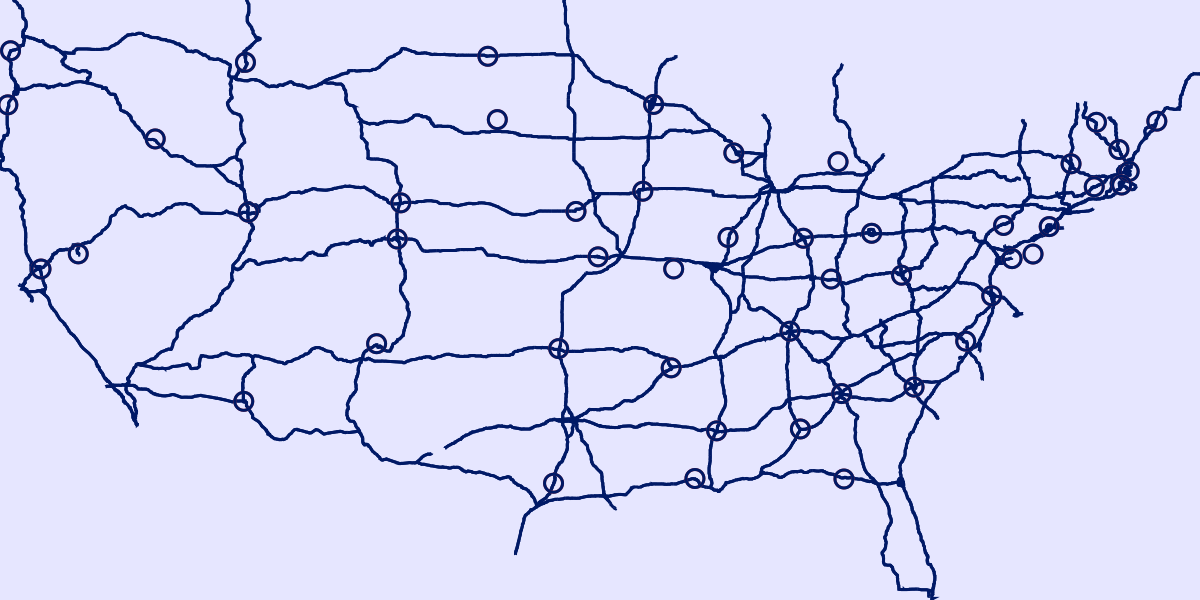
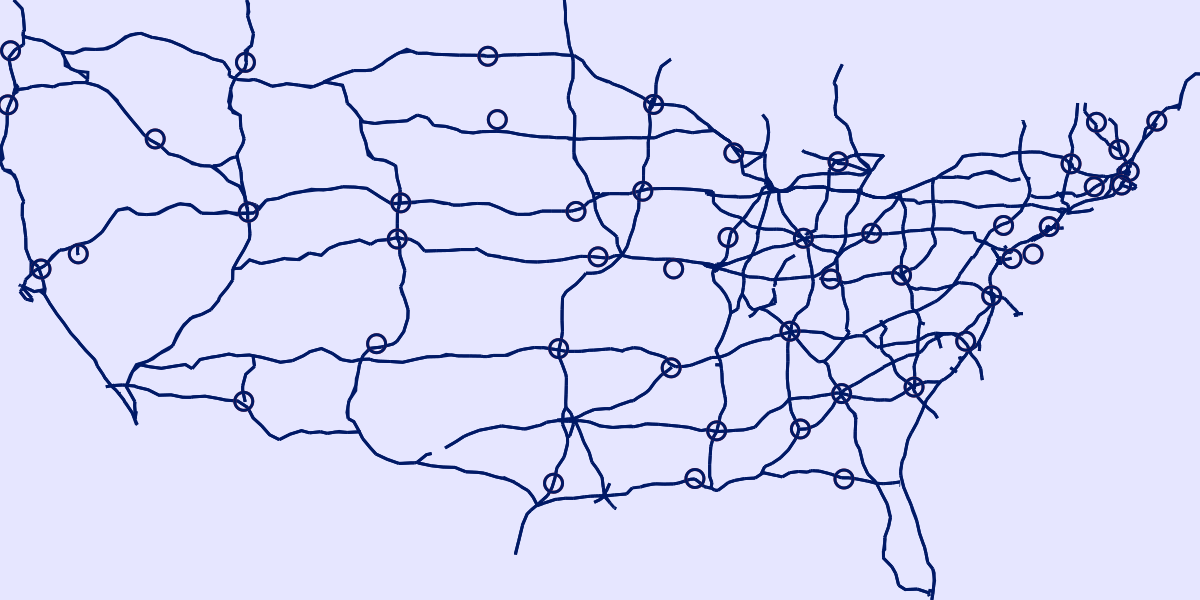
smoothing integrated

diff --git a/2021/08.roads/enShapefile.py b/2021/08.roads/enShapefile.py
@@ -33,7 +33,7 @@ class enShapefile:
   normWidth  = 4
   normHeight = 2
   pixelScale = 300
-  minDiff    = .05 # if new coord is less than this thresh offset, then ignore
+  minDiff    = .04 # if new coord is less than this thresh offset, then ignore
 
   targetRoads    = [10,40,80,90] #Interstates
   targetRoadStrs = None
@@ -135,9 +135,15 @@ class enShapefile:
 
     for vert in normVerts[1:]:
       # if distance from last point sufficient, then plot; otherwise, ignore
-      #if self.vertDist(vert, [lastX, lastY]) > self.minDiff: 
-      self.ctx.line_to(vert[0], vert[1])
-      lastX, lastY = vert
+      if self.vertDist(vert, [lastX, lastY]) > self.minDiff: 
+        self.ctx.line_to(vert[0], vert[1])
+        lastX, lastY = vert
+
+    lis = normVerts[-1] #last in sequence
+    if lastX != lis[0] or lastY != lis[1]: # in case last close, avoiding gaps
+        self.ctx.line_to(lis[0], lis[1])
+
+    self.ctx.line_to(vert[0], vert[1])
    
     c = self.lineColor
     self.ctx.set_source_rgb(c[0], c[1], c[2])

diff --git a/2021/08.roads/exShape09.py b/2021/08.roads/exShape09.py
@@ -19,8 +19,9 @@ for i in range( 5, 96, 10): es.targetRoads.append(i)
 for i in range(195, 895, 100): es.targetRoads.append(i)
 
 #manualList = [82,84,86,94, 17,29,24,43,77,79,81,87, 26, 44, 255, 270, 64]
-manualList = [82,84,86,94, 17,29,24,43,77,79,81,87,89,93, 26, 255, 270, 64]
-manualList += [64,264,24,57, 505, 205, 880, 580]
+manualList = [82,84,86,94, 17,29,24,43,77,79,81,87,89,93, 26, 255, 270, 64, 57]
+manualList += [64,264,294,24,57, 505, 205, 880, 580, 475, 280, 69,96,496]
+manualList += [270, 71,69,74]
 
 def roadBus(roadNum, postfixes=['W', 'E', ' W', ' E']): #business roads
   result = []
